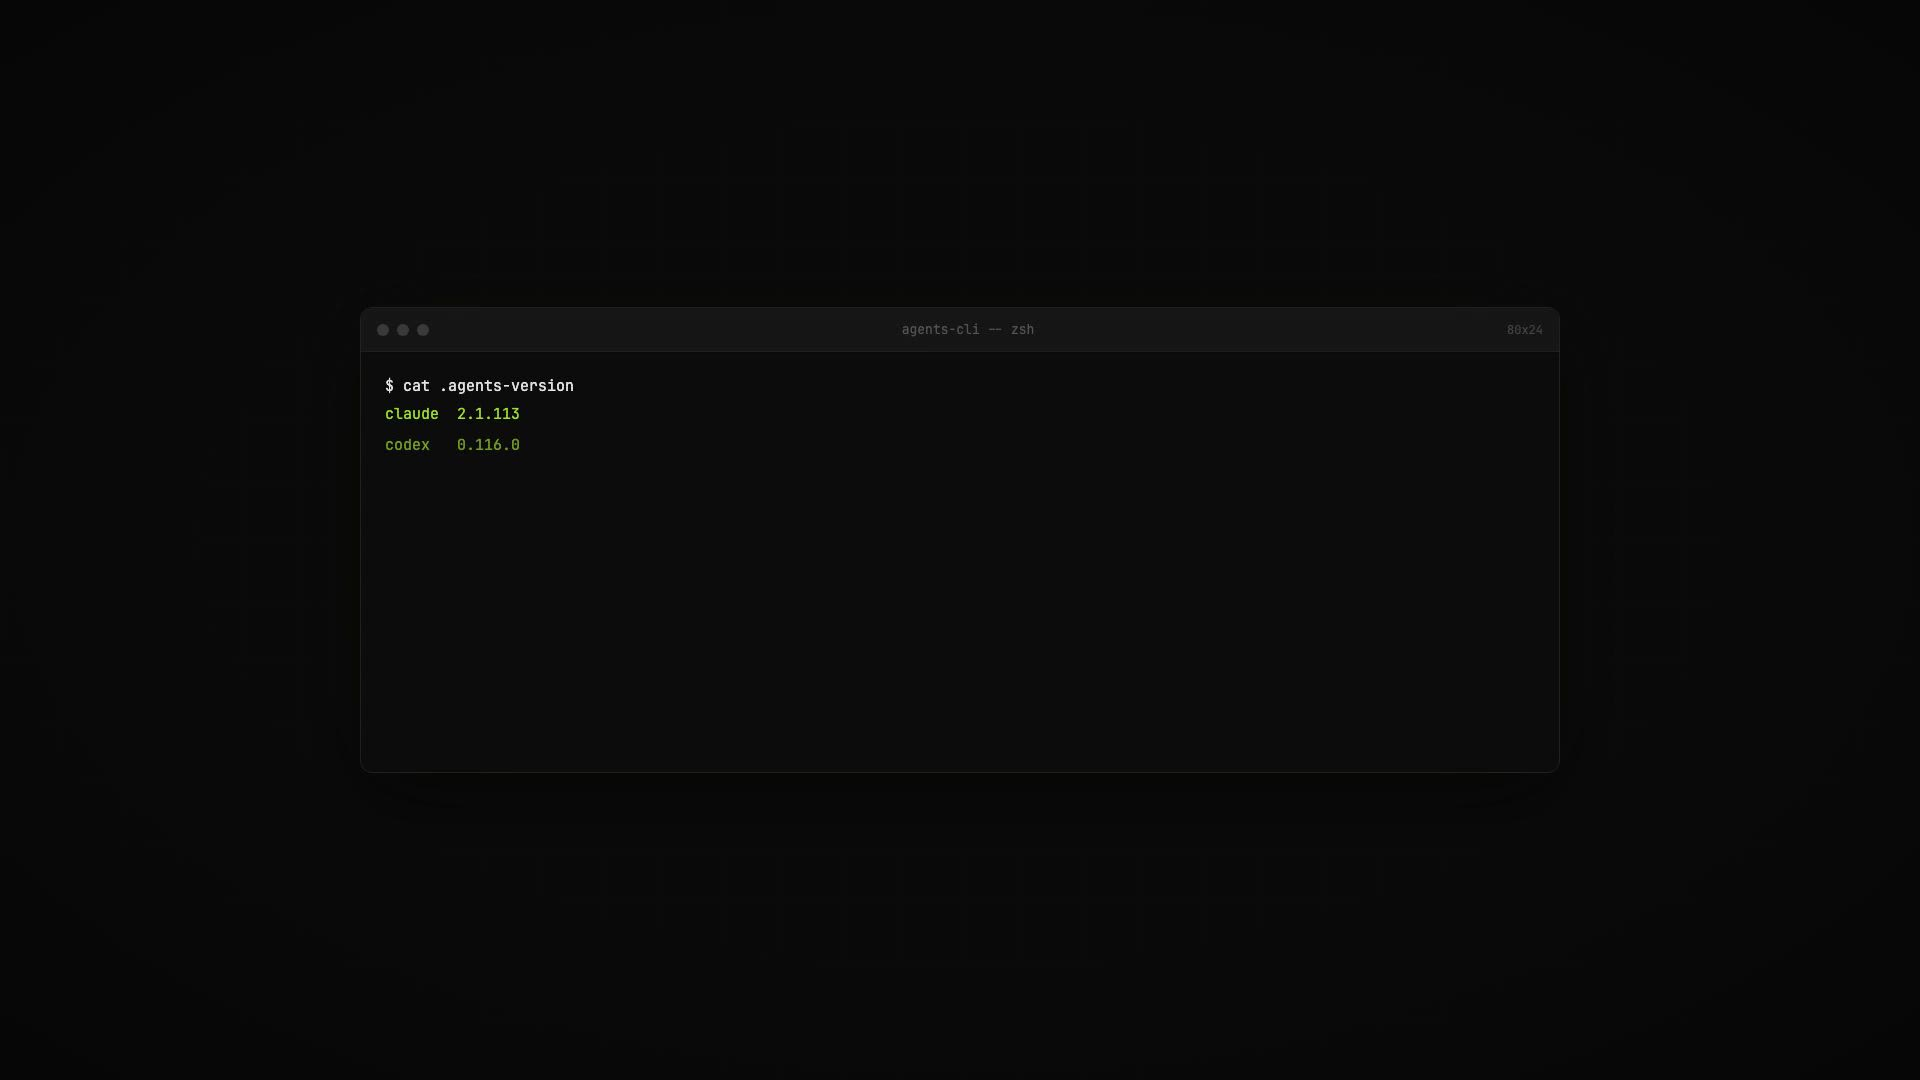
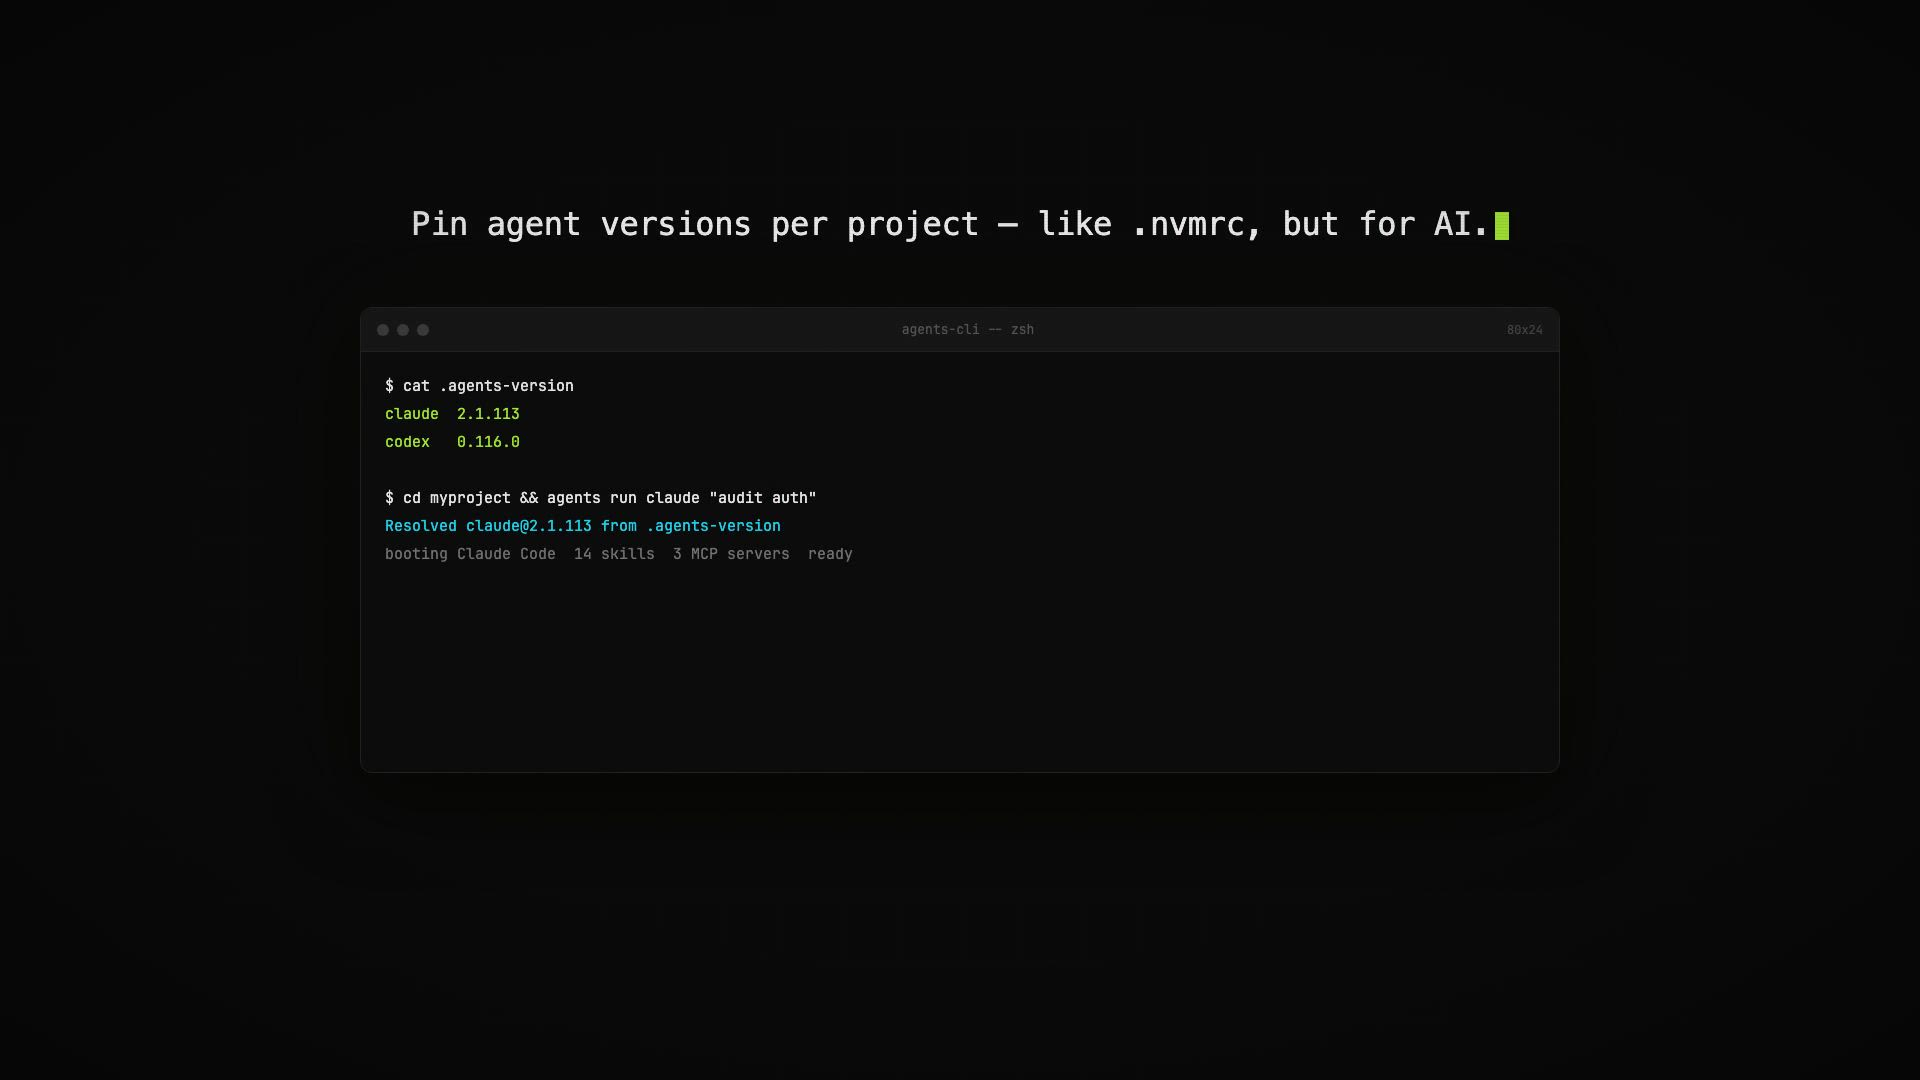
feat(demo): typewritten scene captions so viewers don't have to guess
Each scene now types out a one-line description above the terminal
in the same mono font family used on agents-cli.sh. Fades in with the
scene, typed at ~25 chars/sec with a green block cursor, held until
scene exit.

Re-rendered 1080p hero; the 4K artifact at demo/out/AgentsDemo-4k.mp4
is rebuilt out of band.

diff --git a/demo/src/AgentsDemo.tsx b/demo/src/AgentsDemo.tsx
@@ -34,6 +34,76 @@ const Vignette: React.FC = () => (
   />
 );
 
+// Typewriter caption above the terminal. Same mono font as agents-cli.sh.
+const CaptionOverlay: React.FC<{
+  text: string;
+  frameInScene: number;
+  sceneDuration: number;
+  fps: number;
+}> = ({ text, frameInScene, sceneDuration, fps }) => {
+  if (!text) return null;
+
+  const charsPerFrame = 0.85;
+  const startDelay = 2;
+  const revealed = Math.max(
+    0,
+    Math.min(text.length, Math.floor((frameInScene - startDelay) * charsPerFrame)),
+  );
+  const visible = text.slice(0, revealed);
+  const typingDone = revealed >= text.length;
+
+  const containerOpacity = interpolate(
+    frameInScene,
+    [0, 6, sceneDuration - 12, sceneDuration],
+    [0, 1, 1, 0],
+    { extrapolateLeft: "clamp", extrapolateRight: "clamp" },
+  );
+
+  const cursorOn =
+    !typingDone || Math.floor((frameInScene / fps) * 2) % 2 === 0;
+
+  return (
+    <div
+      style={{
+        position: "absolute",
+        top: 200,
+        left: 0,
+        right: 0,
+        display: "flex",
+        justifyContent: "center",
+        opacity: containerOpacity,
+        zIndex: 10,
+        pointerEvents: "none",
+      }}
+    >
+      <div
+        style={{
+          fontFamily:
+            'ui-monospace, SFMono-Regular, "SF Mono", Menlo, Consolas, monospace',
+          fontSize: 32,
+          fontWeight: 400,
+          letterSpacing: "-0.01em",
+          color: "#e8e8e8",
+          display: "flex",
+          alignItems: "center",
+        }}
+      >
+        <span>{visible}</span>
+        <span
+          style={{
+            display: "inline-block",
+            width: 14,
+            height: 28,
+            marginLeft: 4,
+            background: cursorOn ? "#a3e635" : "transparent",
+            transform: "translateY(2px)",
+          }}
+        />
+      </div>
+    </div>
+  );
+};
+
 // Finale: Phoenix logo + agents-cli wordmark + CTA.
 const Finale: React.FC<{ frameInScene: number; fps: number }> = ({
   frameInScene,
@@ -231,21 +301,31 @@ export const AgentsDemo: React.FC = () => {
       {isFinale ? (
         <Finale frameInScene={frameInScene} fps={fps} />
       ) : (
-        <AbsoluteFill
-          style={{
-            display: "flex",
-            alignItems: "center",
-            justifyContent: "center",
-            opacity: fadeIn,
-            transform: `translateY(${(1 - fadeIn) * 15}px)`,
-          }}
-        >
-          <Terminal
-            lines={scene.lines}
-            sceneStartFrame={sceneStartFrame}
-            prompt={scene.prompt}
-          />
-        </AbsoluteFill>
+        <>
+          {scene.caption ? (
+            <CaptionOverlay
+              text={scene.caption}
+              frameInScene={frameInScene}
+              sceneDuration={scene.durationFrames}
+              fps={fps}
+            />
+          ) : null}
+          <AbsoluteFill
+            style={{
+              display: "flex",
+              alignItems: "center",
+              justifyContent: "center",
+              opacity: fadeIn,
+              transform: `translateY(${(1 - fadeIn) * 15}px)`,
+            }}
+          >
+            <Terminal
+              lines={scene.lines}
+              sceneStartFrame={sceneStartFrame}
+              prompt={scene.prompt}
+            />
+          </AbsoluteFill>
+        </>
       )}
 
       <CRTOverlay />

diff --git a/demo/src/scenes.ts b/demo/src/scenes.ts
@@ -14,6 +14,7 @@ export interface TermLine {
 export interface Scene {
   id: string;
   title: string;          // shown in progress bar
+  caption?: string;       // human-readable description, typewritten above the terminal
   prompt?: string;        // terminal prompt text (default: ~/payments git:(main))
   lines: TermLine[];
   durationFrames: number; // how long this scene lasts
@@ -32,6 +33,7 @@ export const SCENES: Scene[] = [
   {
     id: 'install',
     title: 'INSTALL',
+    caption: 'Install any agent, pinned to an exact version.',
     lines: [
       { text: '$ agents add claude@2.1.113', color: W, typing: true, delay: 0 },
       { text: 'Installing Claude Code@2.1.113...', color: D, delay: 30, spinner: true },
@@ -44,6 +46,7 @@ export const SCENES: Scene[] = [
   {
     id: 'use',
     title: 'USE',
+    caption: 'Switch the global default in one command.',
     clear: true,
     lines: [
       { text: '$ agents use claude@2.1.113', color: W, typing: true, delay: 0 },
@@ -60,6 +63,7 @@ export const SCENES: Scene[] = [
   {
     id: 'profile',
     title: 'PROFILES',
+    caption: 'Add profiles — point Claude at Kimi, Grok, or any endpoint.',
     clear: true,
     lines: [
       { text: '$ agents profiles add kimi', color: W, typing: true, delay: 0 },
@@ -78,6 +82,7 @@ export const SCENES: Scene[] = [
   {
     id: 'skills',
     title: 'SKILLS',
+    caption: 'Install a skill once — synced to every agent.',
     clear: true,
     lines: [
       { text: '$ agents skills add gh:phnx-labs/security-expert', color: W, typing: true, delay: 0 },
@@ -94,6 +99,7 @@ export const SCENES: Scene[] = [
   {
     id: 'mcp',
     title: 'MCP',
+    caption: 'Register MCP servers across every agent at once.',
     clear: true,
     lines: [
       { text: '$ agents install mcp:com.linear/linear', color: W, typing: true, delay: 0 },
@@ -113,6 +119,7 @@ export const SCENES: Scene[] = [
   {
     id: 'pin',
     title: 'PIN',
+    caption: 'Pin agent versions per project — like .nvmrc, but for AI.',
     clear: true,
     lines: [
       { text: '$ cat .agents-version', color: W, typing: true, delay: 0 },
@@ -130,6 +137,7 @@ export const SCENES: Scene[] = [
   {
     id: 'sessions',
     title: 'SESSIONS',
+    caption: 'See every session across agents, versions, and projects.',
     clear: true,
     lines: [
       { text: '$ agents sessions', color: W, typing: true, delay: 0 },
@@ -150,6 +158,7 @@ export const SCENES: Scene[] = [
   {
     id: 'pipe',
     title: 'PIPE',
+    caption: 'Chain agents in Unix pipelines — chain by strength.',
     clear: true,
     lines: [
       { text: '$ agents run claude "find auth vulnerabilities in src/" \\', color: W, typing: true, delay: 0 },
@@ -167,6 +176,7 @@ export const SCENES: Scene[] = [
   {
     id: 'cloud',
     title: 'CLOUD',
+    caption: 'Dispatch work to the cloud — same CLI, remote execution.',
     clear: true,
     lines: [
       { text: '$ agents cloud run "deploy payments-api to staging" --provider rush', color: W, typing: true, delay: 0 },
@@ -187,6 +197,7 @@ export const SCENES: Scene[] = [
   {
     id: 'rotate',
     title: 'ROTATE',
+    caption: 'Rotate across accounts — never hit a usage limit again.',
     clear: true,
     lines: [
       { text: '$ agents run claude --rotate "run full test suite"', color: W, typing: true, delay: 0 },